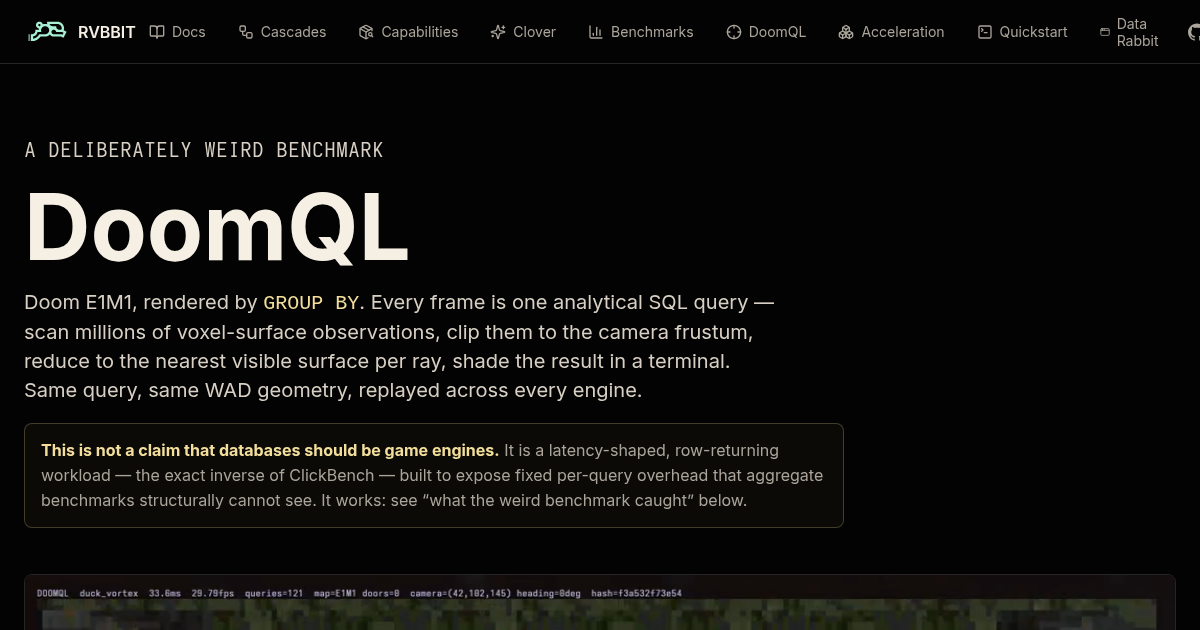
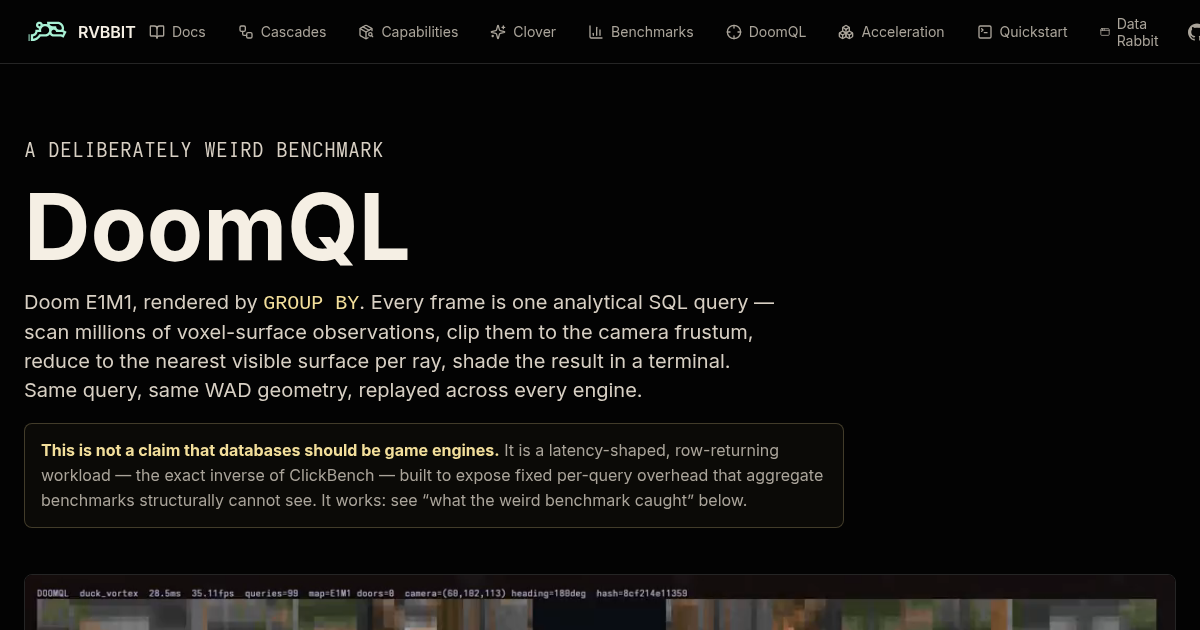
Pin install artifacts + tarball to 4.1.3; refresh OG screenshots

Changed region(s): [[0.0308, 0.9349, 0.9867, 1.0]]

diff --git a/content/docs/existing-postgres.md b/content/docs/existing-postgres.md
@@ -37,10 +37,10 @@ Each layer is strictly additive. Nothing you skip is load-bearing.
 Grab the extension tarball (linux amd64, PG 18) — no Docker needed:
 
 ```bash
-curl -fsSLO https://rvbbit.ai/dist/pg_rvbbit-4.1.2-pg18-amd64.tar.gz
-curl -fsSL  https://rvbbit.ai/dist/pg_rvbbit-4.1.2-pg18-amd64.tar.gz.sha256 | sha256sum -c
-tar xzf pg_rvbbit-4.1.2-pg18-amd64.tar.gz
-sudo pg_rvbbit-4.1.2-pg18-amd64/install.sh    # copies into pg_config paths
+curl -fsSLO https://rvbbit.ai/dist/pg_rvbbit-4.1.3-pg18-amd64.tar.gz
+curl -fsSL  https://rvbbit.ai/dist/pg_rvbbit-4.1.3-pg18-amd64.tar.gz.sha256 | sha256sum -c
+tar xzf pg_rvbbit-4.1.3-pg18-amd64.tar.gz
+sudo pg_rvbbit-4.1.3-pg18-amd64/install.sh    # copies into pg_config paths
 ```
 
 <details>
